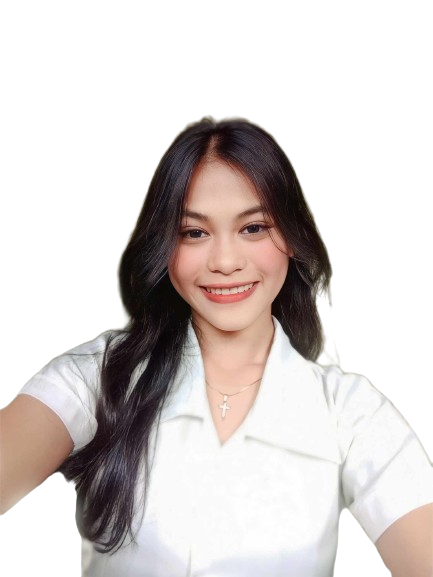
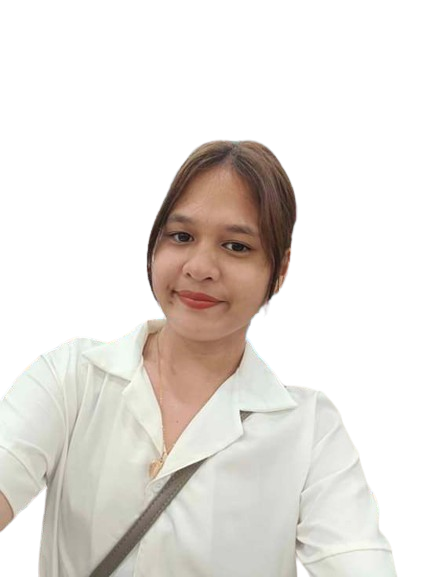
g
g

diff --git a/index.html b/index.html
@@ -16,7 +16,7 @@
         <header class="l-header">
             <nav class="nav bd-grid">
                 <div>
-                    <a href="#" class="nav__logo">Noureen</a>
+                    <a href="#" class="nav__logo">Juliana</a>
                 </div>
 
                 <div class="nav__menu" id="nav-menu">
@@ -39,7 +39,7 @@
             <!--===== HOME =====-->
             <section class="home bd-grid" id="home">
                 <div class="home__data">
-                    <h1 class="home__title">Hi,<br>I'am <span class="home__title-color">Noureen</span><br> Web Designer</h1>
+                    <h1 class="home__title">Hi,<br>I'am <span class="home__title-color">Juliana</span><br> Web Designer</h1>
 
                     <a href="#" class="button">Contact</a>
                 </div>
@@ -73,8 +73,8 @@
                     </div>
                     
                     <div>
-                        <h2 class="about__subtitle">Noureen Ornaiz</h2>
-                        <p class="about__text">Hi I'm <b>Noureen Ornaiz</b></p>           
+                        <h2 class="about__subtitle">Juliana Baret</h2>
+                        <p class="about__text">Hi I'm <b>Juliana Baret</b></p>           
                     </div>                                   
                 </div>
             </section>
@@ -186,7 +186,7 @@
 
         <!--===== FOOTER =====-->
         <footer class="footer">
-            <p class="footer__title">Marlon</p>
+            <p class="footer__title">Juliana</p>
             <div class="footer__social">
                 <a href="#" class="footer__icon"><i class='bx bxl-facebook' ></i></a>
                 <a href="#" class="footer__icon"><i class='bx bxl-instagram' ></i></a>
